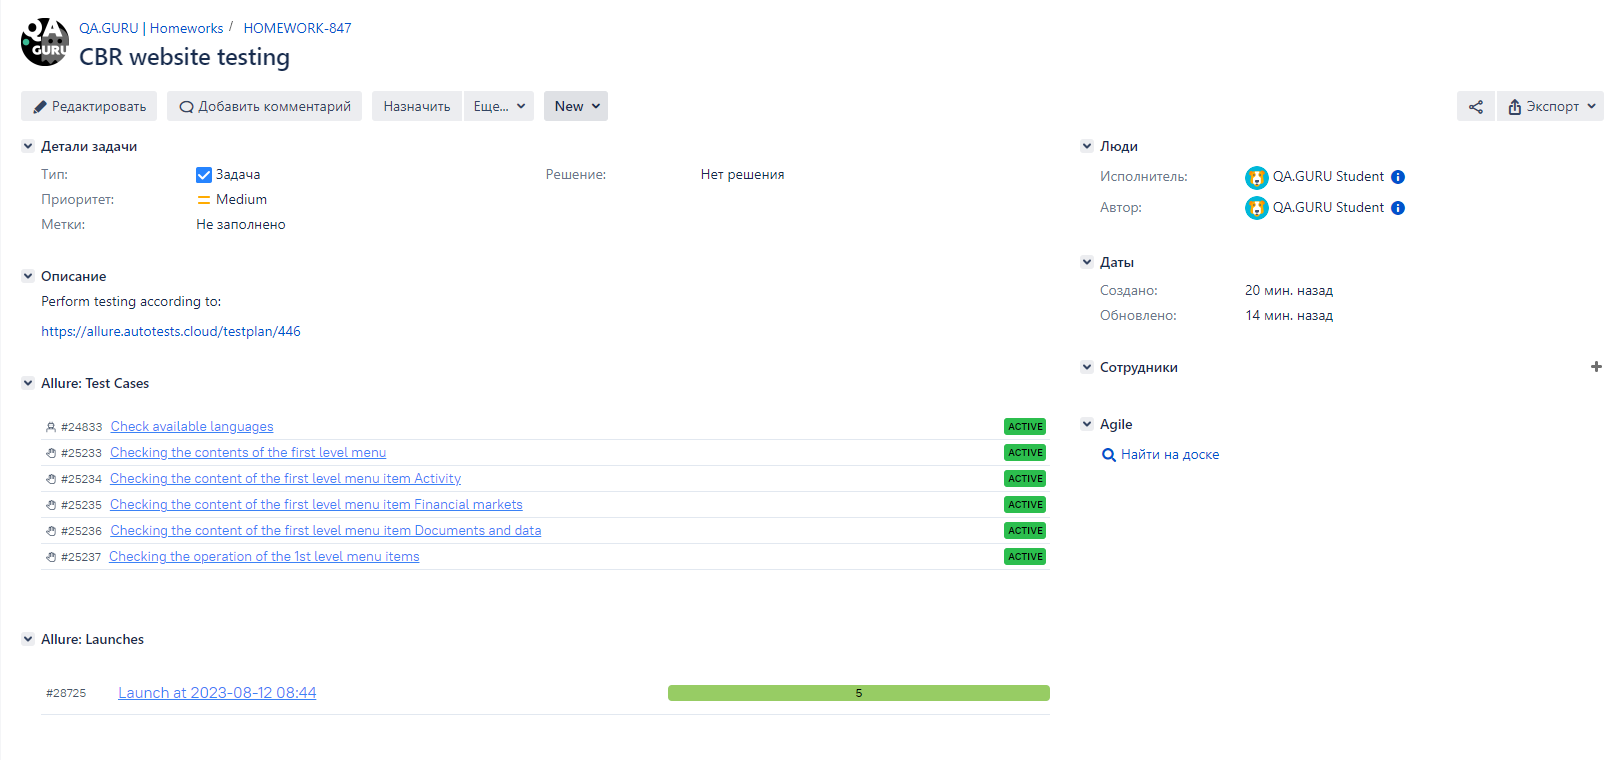
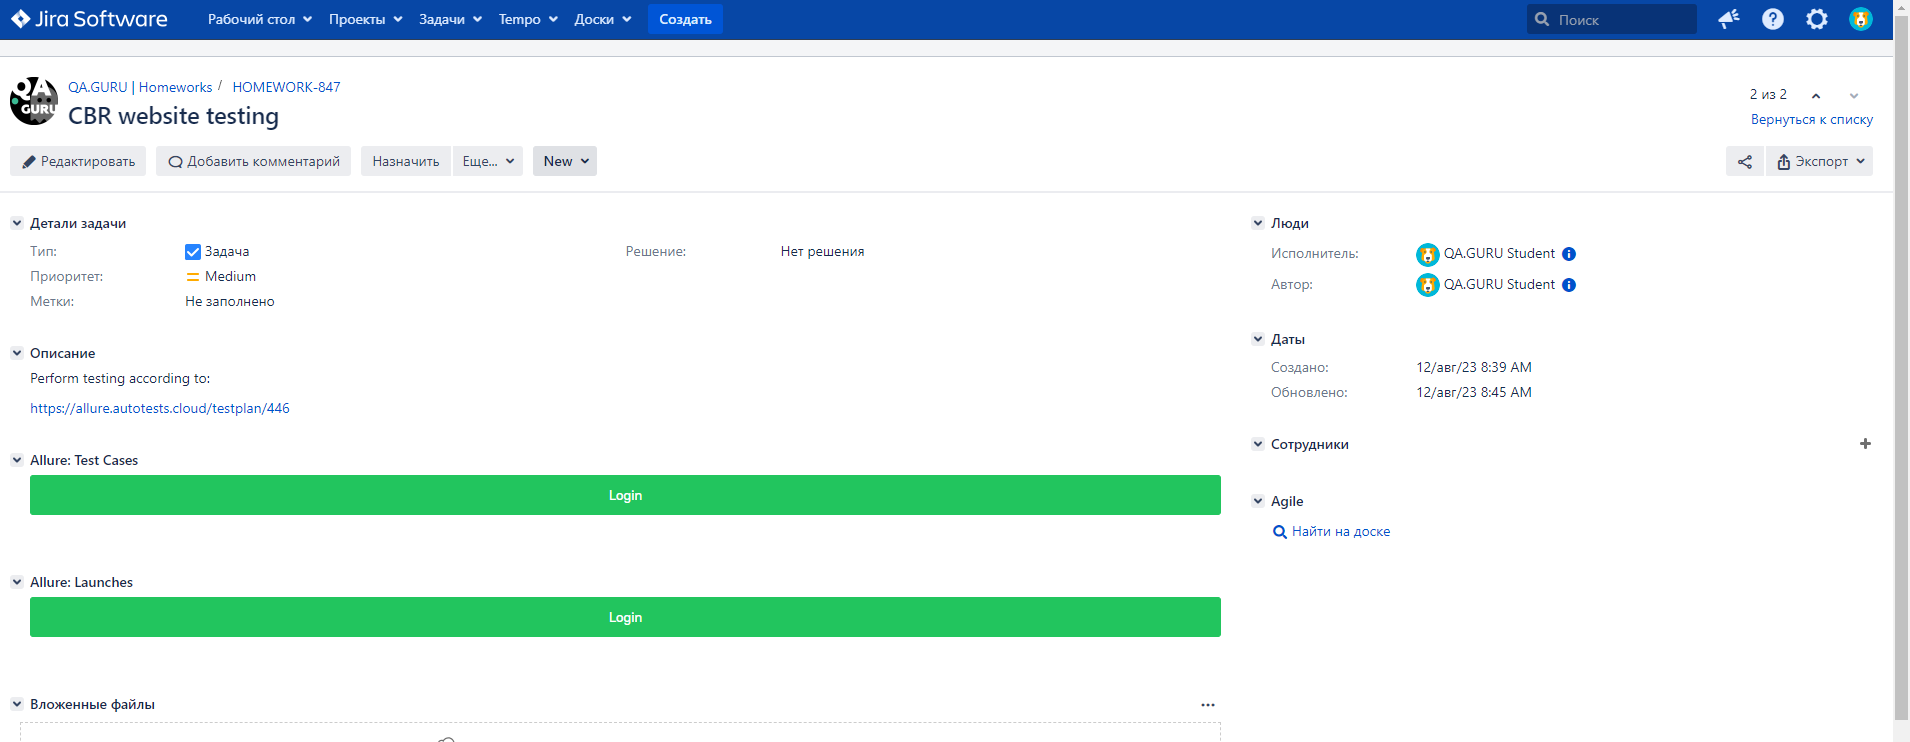
Jira new

diff --git a/README.md b/README.md
@@ -16,9 +16,9 @@ Bank of Russia — The Central Bank of the Russian Federation is the main issuin
     + [Run in Jenkins](#run-in-jenkins)
 + [Telegram notifications](#telegram-notifications)
 + [Test results in Allure Report](#test-results-in-allure-report)
-+ [Интеграция с Allure TestOps](#Интеграция-с-Allure-TestOps)
-+ [Интеграция с Jira](#Интеграция-с-Jira)
-+ [Видео запуска тестов](#Видео-запуска-тестов)
++ [Integration with Allure TestOps](#integration-with-allure-testops)
++ [Integration with Jira](#integration-with-jira)
++ [Test run video](#test-run-video)
 
 # <a name="Description">Description</a>
 Тестовый проект состоит из веб-тестов (UI)
@@ -67,6 +67,8 @@ Bank of Russia — The Central Bank of the Russian Federation is the main issuin
 - [x] Checking the operation of the 1st level menu items
 - [x] Checking the content of the first level menu items
 - [x] Checking the content of the second level menu items
+
+[Back to Contents ⬆](#Contents)
 
 # <a name="Launch Options">Launch Options</a>
 
@@ -193,7 +195,7 @@ Telegram-бот отправляет краткий отчет в указанн
 
 [Back to Contents ⬆](#Contents)
 
-# <a>Интеграция с [Allure TestOps](https://allure.autotests.cloud/project/3588/dashboards)</a>
+# <a>Integration with [Allure TestOps](https://allure.autotests.cloud/project/3588/dashboards)</a>
 > Ссылка доступна только авторизованным пользователям.
 
 Тест-кейсы в проекте импортируются и постоянно обновляются из кода,
@@ -214,14 +216,14 @@ Telegram-бот отправляет краткий отчет в указанн
 
 [Back to Contents ⬆](#Contents)
 
-# <a>Интеграция с Jira</a>
+# <a>Integration with [Jira](https://jira.autotests.cloud/browse/HOMEWORK-847)</a>
 <p align="center">
   <img src="images/screen/Jira.PNG" alt="JiraIntegration" width="950">
 </p>
 
 [Back to Contents ⬆](#Contents)
 
-# <a>Видео запуска тестов</a>
+# <a>Test run video]</a>
 
 <p align="center">
   <img src="images/video/video_ui_work_gif.gif" alt="Video">
